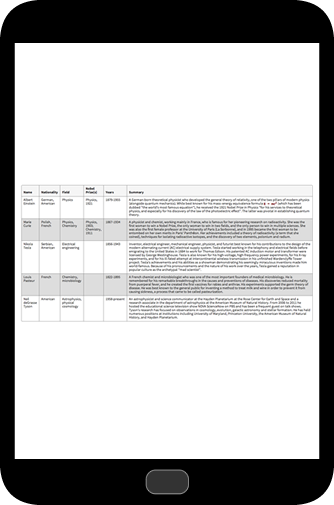
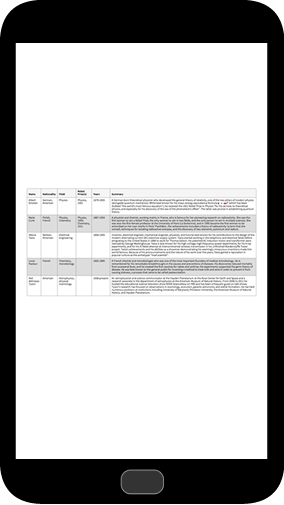
Ch-ch-ch-changes

diff --git a/index_craig.html b/index_craig.html
@@ -109,13 +109,13 @@
             </section>
             <section>
                 <h2>What's the Alternative?</h2>
-                <p>How do we avoid reinventing the wheel?</p>
+                <!-- <p>How do we avoid reinventing the wheel?</p> -->
                 <p class="fragment">What makes the web great?</p>
                 <aside class="notes">
                     <p>We discussed how to go about tackling this problem.</p>
                     <p><i>bullet</i></p>
                     <p>Our angle was think about how web development has advanced dramatically in the last few years.</p>
-                    <p>How can these new practices be harnessed?</p>
+                    <p>Maybe that can give us some insight about a different approach.</p>
                     <p><i>next</i></p>
                 </aside>
             </section>
@@ -153,15 +153,15 @@
 
             <section>
                 <h2>Responsive Design Can Be Hard</h2>
-                <p class="fragment">It takes a lot of time</p>
-                <p class="fragment">It's a moving target</p>
-                <p class="fragment">It's fundamentally different</p>
-                <!-- <p class="fragment">Don't reinvent the wheel again</p> -->
+                <p>It takes a lot of time</p>
+                <p>It's a moving target</p>
+                <p>It's fundamentally different</p>
+                <!-- <p>Don't reinvent the wheel again</p> -->
                 <aside class="notes">
                     <p>New techniques and best practices are constantly coming to the forefront</p>
-                    <p><i>Start bullets &mdash; 4 total</i></p>
+                    <!-- <p><i>Start bullets &mdash; 4 total</i></p> -->
                     <p>You have to stay on top of the latest developments &mdash; just as users are staying on top of the latest shiny new phone or tablet</p>
-                    <p>It can be overwhelming, so we looked around for help. <i>next</i></p>
+                    <p>It can be overwhelming, so we looked around to see if anyone had already done this before. <i>next</i></p>
                 </aside>
             </section>
 
@@ -171,23 +171,27 @@
                     <img src="img/anybodyoutthere.jpg" style="height:500px">
                 </div>
                 <aside class="notes">
-                    <p>Has anyone already done this before?</p>
-                    <p>Fortunately, yes. We found a few organizations tackling responsive web design well.</p>
+                    <p>Fortunately, we found a few organizations tackling responsive web design well.</p>
                     <p>We picked the one that fit best.</p>
                 </aside>
             </section>
             <section data-transition="fade">
                 <h2>Foundation</h2>
-                <img class="noshadow" src="img/device-bg1.png">
+                <div><img class="noshadow" src="img/device-bg1.png"></div>
+                <div>Mobile First</div>
+                <div>Semantic Markup</div>
+                <div>Library of JavaScript Plugins</div>
                 <aside class="notes">
-                    <p>Foundation is a framework made by a company called Zurb</p>
+                    <p>We chose Foundation, a framework made by a company called Zurb</p>
+                    <p>It's modular, it's very customizable, and it provides a great base to start from</p>
+                    <p>It's the perfect to start for a responsive design, so we dug in.</p>
                 </aside>
             </section>
-            <section data-transition="fade">
+            <!-- <section data-transition="fade">
                 <h2>Foundation</h2>
                 <div>Mobile First</div>
                 <div>Semantic Markup</div>
-                <div>Library of JaveScript Plugins</div>
+                <div>Library of JavaScript Plugins</div>
                 <div>
                     <br>
                 </div>
@@ -200,11 +204,15 @@
                     <p>It's modular, it's very customizable, and it provides a great base to start from</p>
                     <p>It's the perfect to start for a responsive design, so we dug in.</p>
                 </aside>
-            </section>
+            </section> -->
             <section>
                 <h2>So We Started Making Stuff</h2>
+                <div>
+                    <br>
+                    <img src="img/sprint1.jpg" class="full-width" alt="">
+                </div>
                 <aside class="notes">
-                    <p>We thought of components that are common to most web sites that aren't inherently flexibile.</p>
+                    <p>We thought of components that are common to most web sites, but which are not inherently flexibile.</p>
                     <p>We redesigned them from the ground up and made them responsive and adaptable. I'd like to show you few now.</p>
                     <p><i>next</i></p>
                 </aside>
@@ -268,7 +276,7 @@
                 <div style="visibility:hidden">
                     <a href="demos/tables.html" target="_blank">View Demo</a>
                 </div>
-                <div class="fragment" data-fragment-index="0"><img src="img/responsive-tables-wide.png" class="full-width no-box-shadow noshadow" alt=""></div>
+                <div><img src="img/responsive-tables-wide.png" class="full-width no-box-shadow noshadow" alt=""></div>
                 <!-- <div class="fragment" data-fragment-index="0"><img src="img/responsive-tables.gif" alt=""></div> -->
                 <aside class="notes">
                     <p>Tables are a tough nut to crack. We all have them, and we love to cram them with data.</p>
@@ -281,7 +289,7 @@
                 <div class="fragment" data-fragment-index="0">
                     <a href="demos/tables.html" target="_blank">View Demo</a>
                 </div>
-                <div><img src="img/responsive-tables-phone.png" class="full-width no-box-shadow noshadow" alt=""></div>
+                <div><img src="img/responsive-tables-phone.png" style="max-height:400px;" class="full-width no-box-shadow noshadow" alt=""></div>
                 <!-- <div class="fragment" data-fragment-index="0"><img src="img/responsive-tables.gif" alt=""></div> -->
                 <aside class="notes">
                     <p><i>bullet</i></p>
